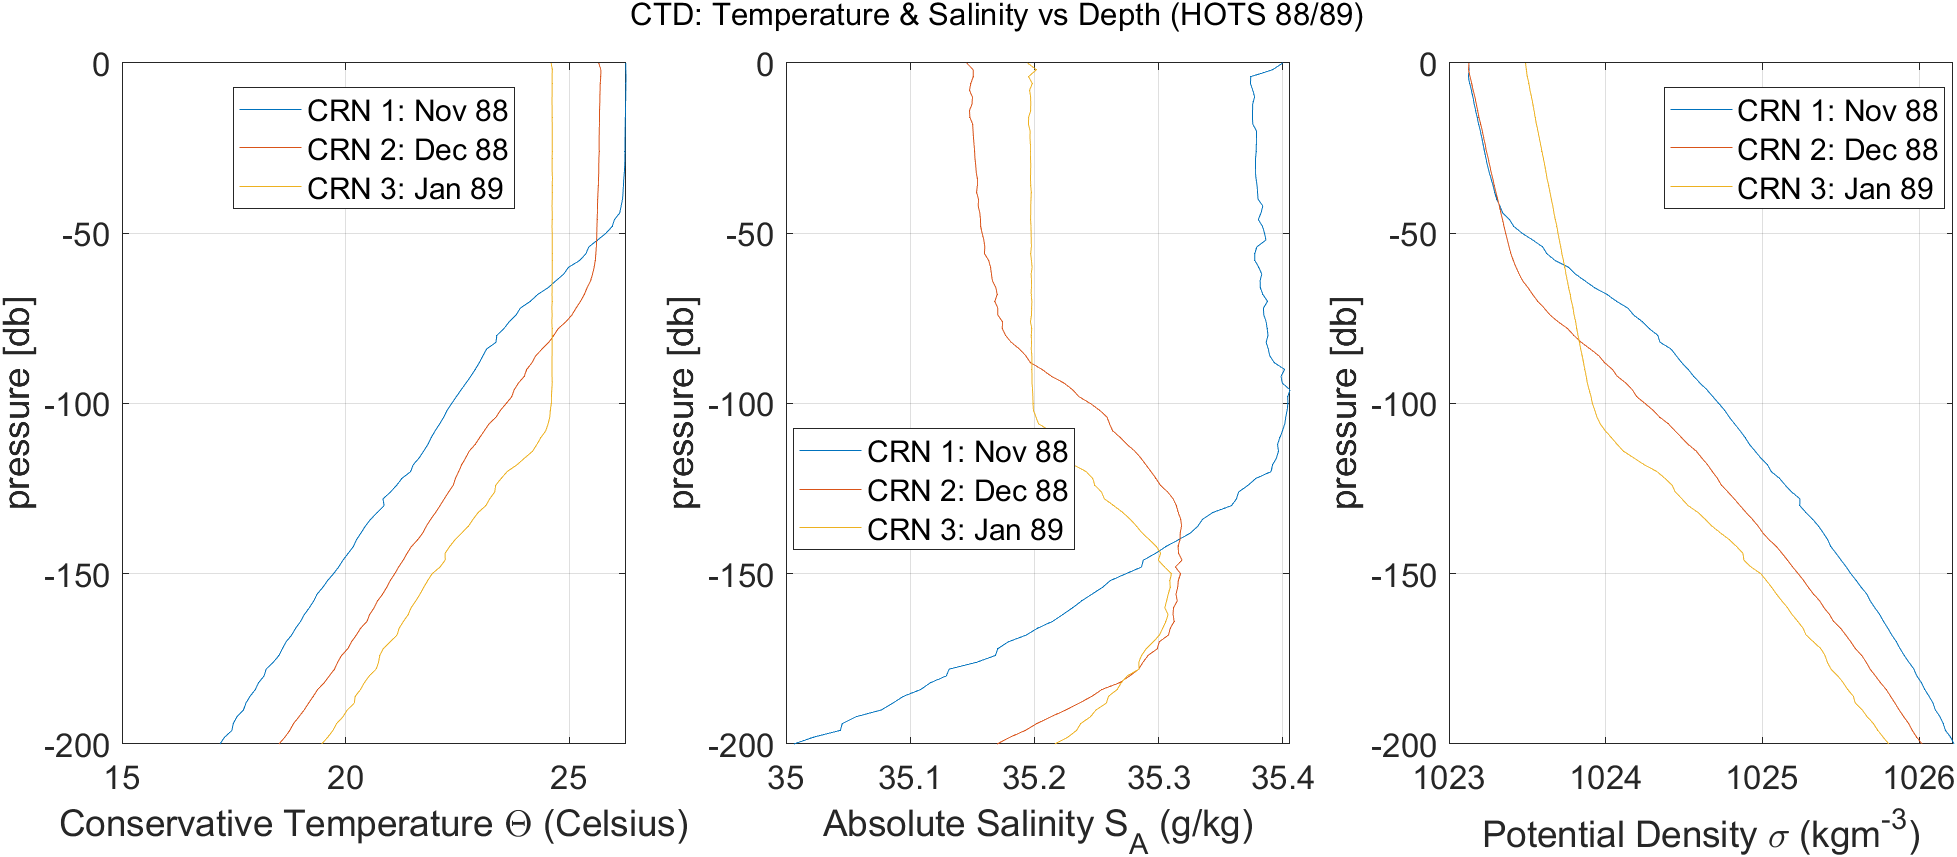
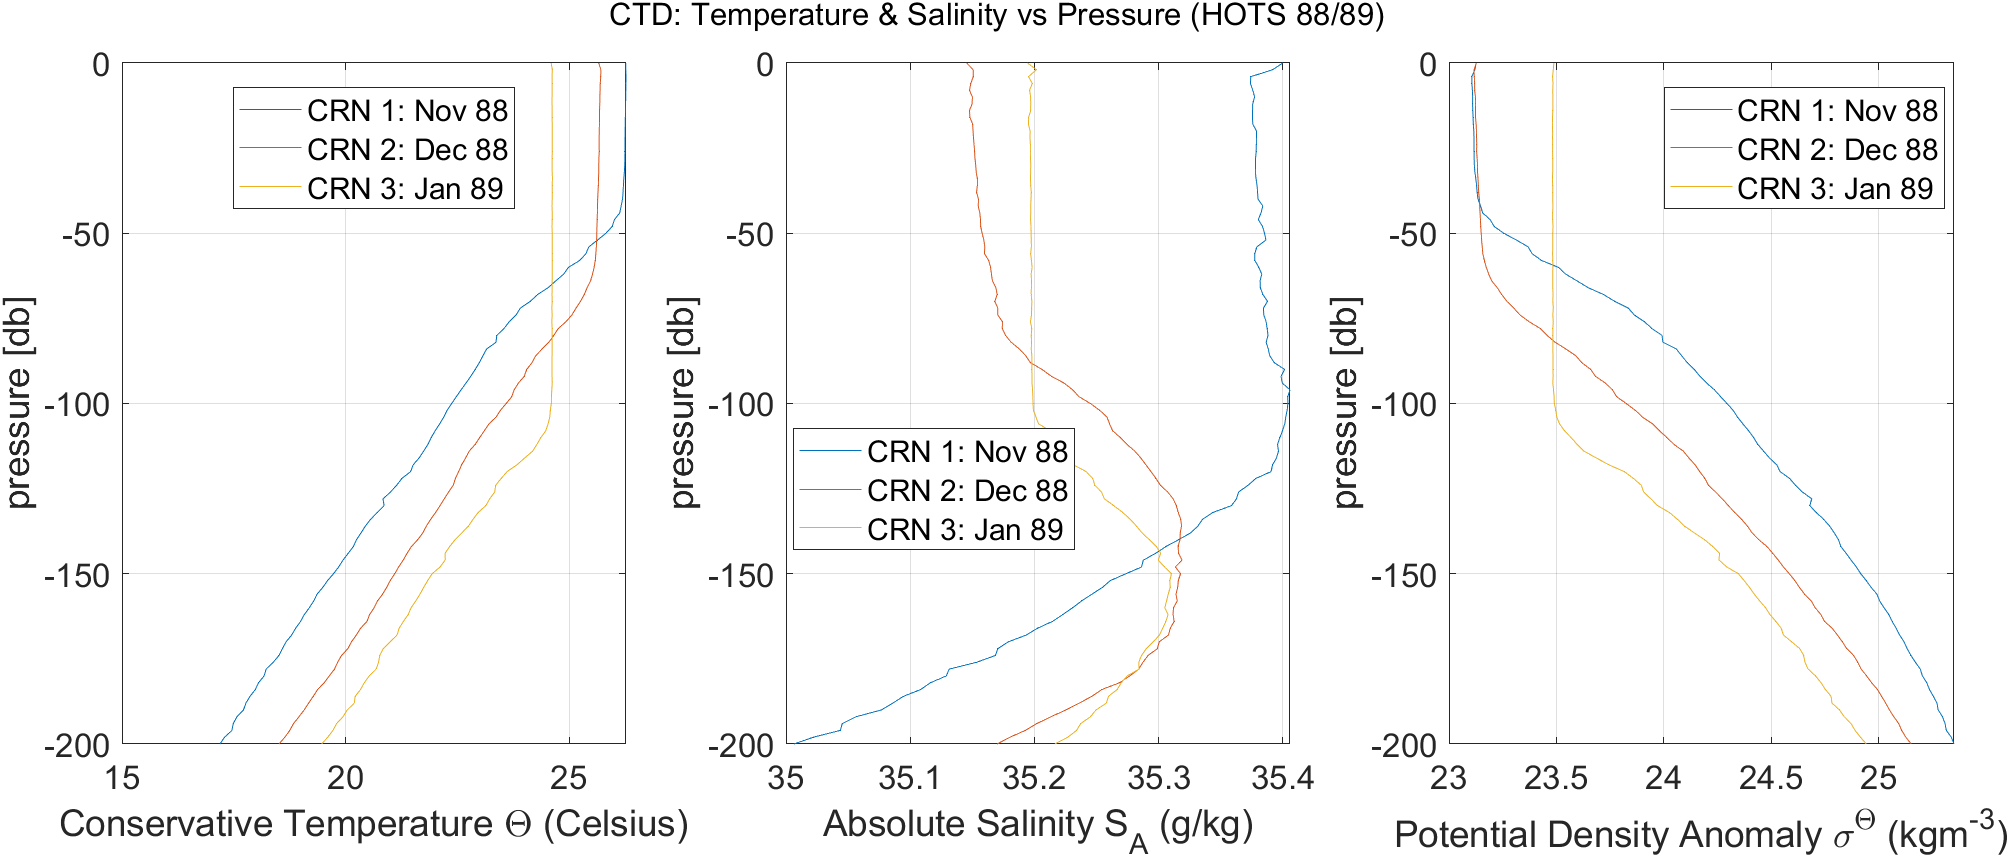
Create time- and depth- profiles of SA, CT, etc

diff --git a/examine_HOTS_STnit.m b/examine_HOTS_STnit.m
@@ -30,12 +30,12 @@ nitrate(nitrate==-9) = NaN;
 
 SA = gsw_SA_from_SP(S,pressure,-158,22.75);
 CT = gsw_CT_from_t(SA,T,pressure);
-rho = gsw_rho(SA,CT,pressure);
+sigma0 = gsw_sigma0(SA,CT);
 
 %% Examine First Days of Data for CT, SA, and sigma
 
 ax1 = figure;
-sgtitle('CTD: Temperature & Salinity vs Depth (HOTS 88/89)');
+sgtitle('CTD: Temperature & Salinity vs Pressure (HOTS 88/89)');
 subplot(1,3,1)
 plot(CT(1:101),-pressure(1:101),'DisplayName','CRN 1: Nov 88');
 hold on
@@ -56,14 +56,14 @@ ylabel('pressure [db]');
 xlabel('Absolute Salinity S_A (g/kg)');
 
 subplot(1,3,3)
-plot(rho(1:101),-pressure(1:101),'DisplayName','CRN 1: Nov 88');
+plot(sigma0(1:101),-pressure(1:101),'DisplayName','CRN 1: Nov 88');
 hold on
-plot(rho(102:202),-pressure(102:202),'DisplayName','CRN 2: Dec 88');
-plot(rho(203:303),-pressure(203:303),'DisplayName','CRN 3: Jan 89');
+plot(sigma0(102:202),-pressure(102:202),'DisplayName','CRN 2: Dec 88');
+plot(sigma0(203:303),-pressure(203:303),'DisplayName','CRN 3: Jan 89');
 hold off
 legend('Location','best');
 ylabel('pressure [db]');
-xlabel('Potential Density \sigma (kgm^{-3})');
+xlabel('Potential Density Anomaly \sigma^\Theta (kgm^{-3})');
 
 exportgraphics(ax1,'figures/ctd-day-1-SA-CT-sigma.png');
 
@@ -78,3 +78,96 @@ set(groot, 'defaultFigureUnits', 'centimeters', 'defaultFigurePosition', [16 5 2
 ax2 = figure;
 gsw_SA_CT_plot(SA,CT,p_ref,isopycs,'\it{S}\rm_A - {\Theta} diagram');
 exportgraphics(ax2,'figures/ctd-SA-CT.png');
+
+'color',[1,1,1]
+
+%% Conservative Temperature Pressure- and Time-Series (1988-2022): Eulerian View
+
+% Return to default view for Pressure- and time-series
+set(groot, 'defaultFigureUnits', 'centimeters', 'defaultFigurePosition', [5 5 40 15]);
+
+CT2D = reshape(CT,101,[]);
+days = day + datetime(1988,09,30);
+days = reshape(days,101,[]);
+pres = reshape(pressure,101,[]);
+
+[t_grid,p_grid] = meshgrid(datenum(days(1,:)),pres(:,1));
+nb=100
+ax3 = figure;
+h=contourf(t_grid,p_grid,CT2D,linspace(16,28,nb),'LineColor','auto');
+set(gca,'Ydir','reverse')
+datetick('x','yyyy mmm','keeplimits');
+d = colormap(flipud(cbrewer2('Spectral',nb)));
+c = colorbar;
+c.Label.String = 'Conservative Temperature (C)';
+xlabel('Time');
+ylabel('Pressure [db]');
+title('Conservative Temperature \Theta: 1988 - 2021 (Eulerian)');
+
+exportgraphics(ax3,'figures/conservativeTemperature-1988-2021_eulerianView.png');
+
+figure
+plot(sigma2d(50,:),)
+%% Absolute Salinity Pressure- and Time-Series (1988-2022): Eulerian View
+
+SA2D = reshape(SA,101,[]);
+
+ax4 = figure;
+contourf(t_grid,p_grid,SA2D,linspace(34.6,35.6,nb),'LineColor','auto');
+set(gca,'Ydir','reverse')
+datetick('x','yyyy mmm','keeplimits');
+colormap(flipud(cbrewer2('Spectral',nb)));
+c = colorbar;
+c.Label.String = 'Absolute Salinity S_A (g kg^{-1})';
+xlabel('Time');
+ylabel('Pressure [db]');
+title('Absolute Salinity S_A: 1988 - 2021 (Eulerian)');
+
+exportgraphics(ax4,'figures/absoluteSalinity-1988-2021_eulerianView.png');
+
+%% Density Pressure- and Time-Series (1988-2022): Eulerian View
+
+% Definitions of Mixed Layer Depth (MLD)
+% Birol Kara et al. (2000) suggest \Delta T = 0.8 K
+% de Boyer Montegut et al (2004) suggest \Delta T = 0.2 C or \Delta \sigma
+% = 0.03 kg/m3
+% Dong et al (2008) used the above method, so let's try that.
+
+sigma2D = reshape(sigma0,101,[]);
+
+MLD = [];
+sigmaTEMP = fillmissing(sigma2D(1,:),"previous");
+for j = 1:329
+    MLD(j) = find(sigma2D(:,j) > sigmaTEMP(j) + 0.03,1);
+end
+
+% % Determine MLD using definition of \Delta \sigma = 0.03 kg/m3
+% for i = 1:101
+%     for j = 1:1
+%         %sigmaSurface(j) = sigma2D(1,j);
+%         if sigma2D(i,j) > sigma2D(1,j) + 0.03
+%             disp(i);
+%             break;
+%             MLD(j) = i;
+%         end
+%     end
+% end
+
+ax5 = figure;
+contourf(t_grid,p_grid,sigma2D,'LineColor','auto');
+hold on
+plot(t_grid(1,:),MLD);
+hold off
+% hold on
+% plot(t_grid,p_grid,sigma2D(10),'LineColor','red');
+% hold off
+set(gca,'Ydir','reverse')
+datetick('x','yyyy mmm','keeplimits');
+colormap(flipud(cbrewer2('Spectral')));
+c = colorbar;
+c.Label.String = 'Potential Density Anomaly \sigma^\Theta (kg m^{-3})';
+xlabel('Time');
+ylabel('Pressure [db]');
+title('Potential Density Anomaly \sigma^\Theta: 1988 - 2021 (Eulerian)');
+
+exportgraphics(ax5,'figures/density-1988-2021_eulerianView.png');
